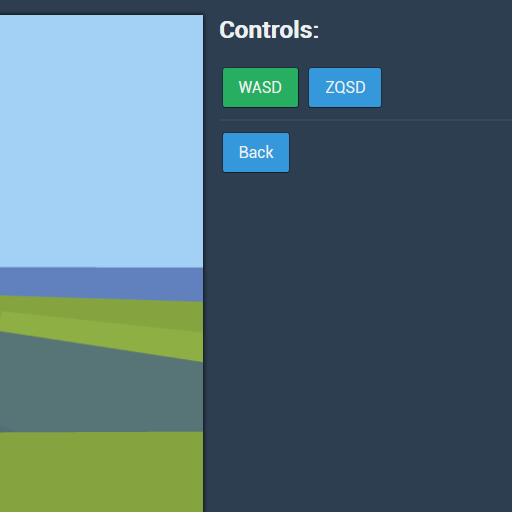
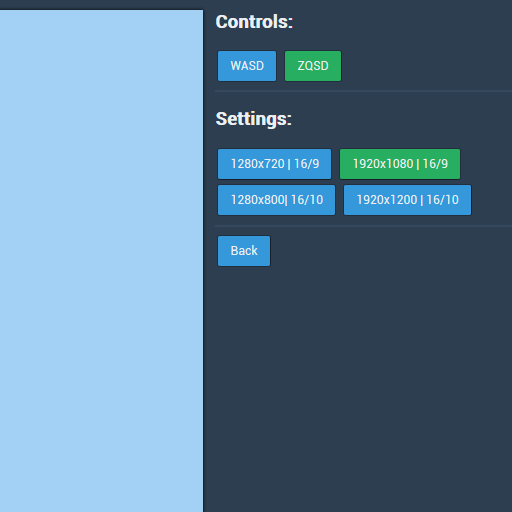
Added settings for screen resolutions

Changed region(s): [[0.0, 0.0312, 0.9375, 1.0], [0.0, 0.0, 0.4062, 0.0312]]

diff --git a/WebGL tests/controls/main.js b/WebGL tests/controls/main.js
@@ -51,9 +51,11 @@ var settings = {
 	waterColor: [0.2, 0.3, 0.6, 0.6]
 };
 
-var currentControls = "wasd";
 var zqsdRadio;
 var wasdRadio;
+var resolRadios = [];
+
+var currentControls = "wasd";
 var controls;
 
 var world = [];
@@ -614,17 +616,50 @@ function initListeners(){
 	wasdRadio = $("#wasdRadio")[0];
 	zqsdRadio = $("#zqsdRadio")[0];
 	
-	wasdRadio.onchange = function(){
-		if(wasdRadio.checked){
-			currentControls = "wasd";
-		}
+	resolRadios["1280x720"] = $("#1280x720")[0];
+	resolRadios["1920x1080"] = $("#1920x1080")[0];
+	resolRadios["1280x800"] = $("#1280x800")[0];
+	resolRadios["1920x1200"] = $("#1920x1200")[0];
+	
+	generateChange = function(callback, radio){
+		radio.onchange = function(){
+			if(radio.checked){
+				callback();
+			}
+		};
 	};
 	
-	zqsdRadio.onchange = function(){
-		if(zqsdRadio.checked){
-			currentControls = "zqsd";
-		}
-	};
+	generateChange(function(){
+		currentControls = "wasd";
+	}, wasdRadio);
+	
+	generateChange(function(){
+		currentControls = "zqsd";
+	}, zqsdRadio);
+	
+	generateChange(function(){
+		settings.resolution.width = 1280;
+		settings.resolution.height = 720;
+		settings.ratio = 16/9;
+	}, resolRadios["1280x720"]);
+	
+	generateChange(function(){
+		settings.resolution.width = 1920;
+		settings.resolution.height = 1080;
+		settings.ratio = 16/9;
+	}, resolRadios["1920x1080"]);
+	
+	generateChange(function(){
+		settings.resolution.width = 1280;
+		settings.resolution.height = 800;
+		settings.ratio = 16/10;
+	}, resolRadios["1280x800"]);
+	
+	generateChange(function(){
+		settings.resolution.width = 1920;
+		settings.resolution.height = 1200;
+		settings.ratio = 16/10;
+	}, resolRadios["1920x1200"]);
 }
 
 // RENDER STUFF

diff --git a/WebGL tests/controls/index.html b/WebGL tests/controls/index.html
@@ -10185,6 +10185,23 @@
 		
 		<hr />
 		
+		<h2>Settings:</h2>
+		<input type=radio name="resol" id="1280x720" checked>
+			<label for="1280x720">1280x720 | 16/9</label>
+			
+		<input type=radio name="resol" id="1920x1080">
+			<label for="1920x1080">1920x1080 | 16/9</label>
+		
+		<br />
+		
+		<input type=radio name="resol" id="1280x800" checked>
+			<label for="1280x800">1280x800| 16/10</label>
+			
+		<input type=radio name="resol" id="1920x1200">
+			<label for="1920x1200">1920x1200 | 16/10</label>
+		
+		<hr />
+		
 		<a href="../index.html" class="redLink">Back</a>
 	</body>
 </html>

diff --git a/index.html b/index.html
@@ -14,10 +14,9 @@
 			
 			<article>
 				<h2>Some links...</h2>
-				<ul>
-					<li><a href="http://nasso.url.ph/">My Website</a></li>
-					<li><a href="WebGL%20tests/index.html">WebGL tests</a></li>
-				</ul>
+				
+				<a href="http://nasso.url.ph/">My Website</a>
+				<a href="WebGL%20tests/index.html">WebGL tests</a>
 			</article>
 			
 			<footer>

diff --git a/WebGL tests/index.html b/WebGL tests/index.html
@@ -117,7 +117,8 @@
 				
 				<div class="descAndLinks">
 					<p>
-						WASD and ZQSD controls !
+						WASD and ZQSD controls.<br />
+						Choose the best settings for your screen !
 					</p>
 					<ul>
 						<li><a href="controls/index.html">Controls: WASD and ZQSD versions !</a></li>
